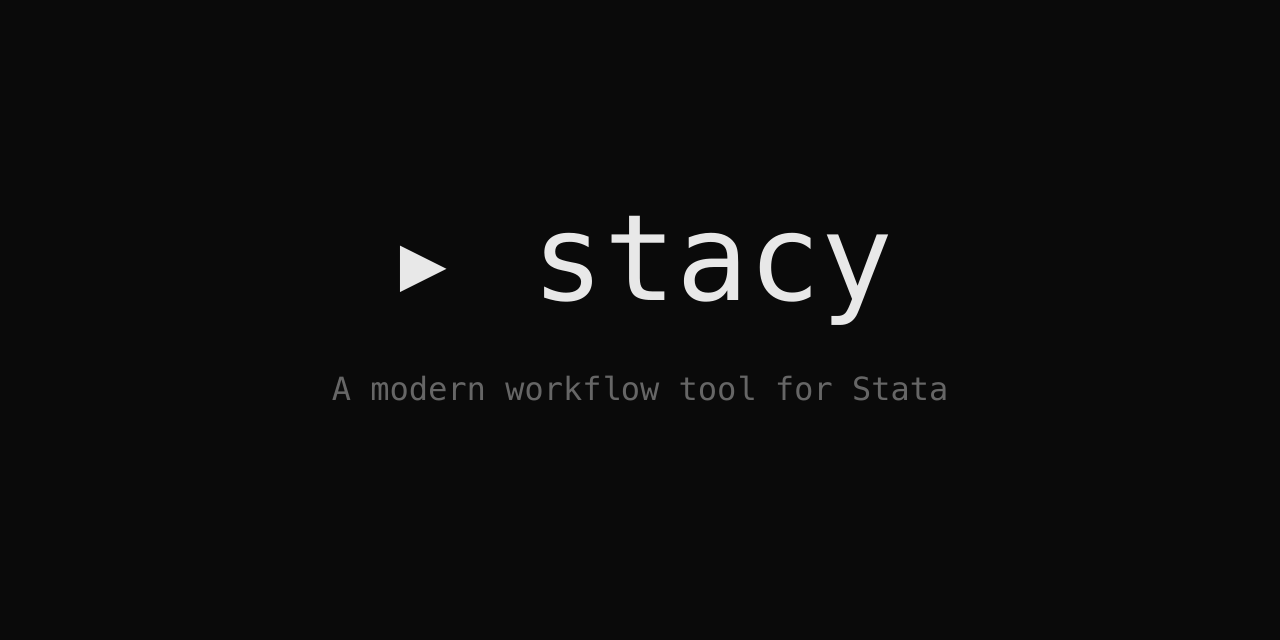
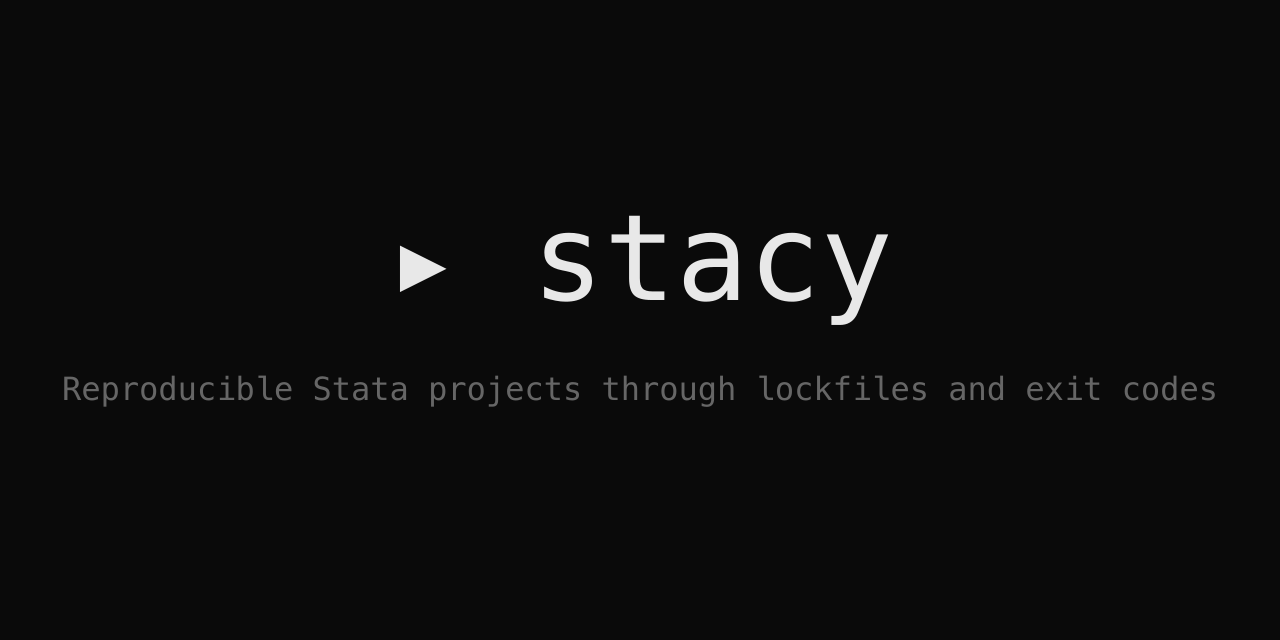
fix: remove phantom files from stacy.pkg breaking net install

Changed region(s): [[0.0312, 0.5938, 0.9688, 0.625]]

diff --git a/xtask/src/codegen.rs b/xtask/src/codegen.rs
@@ -175,7 +175,7 @@ fn generate_ado(name: &str, command: &Command, _schema: &Schema) -> Result<Strin
         "*! {}.ado - {}\n",
         command.stata_command, command.description
     ));
-    out.push_str("*! Part of stacy: Modern Stata Workflow Tool\n");
+    out.push_str("*! Part of stacy: Reproducible Stata Workflow Tool\n");
     out.push_str("*! Version: 0.1.0\n");
     out.push_str("*! AUTO-GENERATED - DO NOT EDIT\n");
     out.push_str("*! Regenerate with: cargo xtask codegen\n\n");
@@ -544,7 +544,7 @@ fn generate_sthlp(name: &str, command: &Command, _schema: &Schema) -> Result<Str
 fn generate_main_ado(schema: &Schema) -> Result<String> {
     let mut out = String::new();
 
-    out.push_str("*! stacy.ado - Modern Stata Workflow Tool\n");
+    out.push_str("*! stacy.ado - Reproducible Stata Workflow Tool\n");
     out.push_str("*! Version: 0.1.0\n");
     out.push_str("*! Author: Jan Fasnacht\n");
     out.push_str("*! URL: https://github.com/janfasnacht/stacy\n");
@@ -651,7 +651,9 @@ fn generate_main_sthlp(schema: &Schema) -> Result<String> {
     out.push_str("{marker description}{...}\n");
     out.push_str("{title:Description}\n\n");
     out.push_str("{pstd}\n");
-    out.push_str("{cmd:stacy} is a modern workflow tool for Stata that provides:\n\n");
+    out.push_str(
+        "{cmd:stacy} is a workflow tool for reproducible Stata projects that provides:\n\n",
+    );
     out.push_str("{p 8 12 2}\n");
     out.push_str(
         "{bf:1.} Proper error detection and exit codes for build system integration{p_end}\n",

diff --git a/Formula/stacy.rb b/Formula/stacy.rb
@@ -1,5 +1,5 @@
 class Stacy < Formula
-  desc "Modern Stata workflow tool for reproducible research"
+  desc "Reproducible Stata projects through lockfiles and exit codes"
   homepage "https://github.com/janfasnacht/stacy"
   version "0.1.0"
   license "MIT"

diff --git a/docs/src/introduction.md b/docs/src/introduction.md
@@ -1,12 +1,12 @@
 # Introduction
 
-[![Version](https://img.shields.io/badge/version-0.1.0-blue)](https://github.com/janfasnacht/stacy/releases)
+[![Version](https://img.shields.io/badge/version-1.0.1-blue)](https://github.com/janfasnacht/stacy/releases)
 [![License](https://img.shields.io/badge/license-MIT-green)](https://github.com/janfasnacht/stacy/blob/main/LICENSE)
 [![GitHub](https://img.shields.io/badge/github-janfasnacht/stacy-black)](https://github.com/janfasnacht/stacy)
 
-**stacy** is a modern workflow tool for Stata. It runs scripts with proper exit codes, manages packages with lockfiles, and integrates Stata into reproducible pipelines.
+Stata projects need to compose: with build systems that expect exit codes, with environments that must be reconstructed, with pipelines that mix languages. But Stata leaves two things implicit that composition requires to be explicit: the environment — what packages the project needs — and the outcome — whether execution succeeded.
 
-For those familiar with other ecosystems:
+**stacy** makes both explicit. Dependencies get a manifest and lockfile; execution gets proper exit codes. With these primitives, Stata projects can be versioned, automated, and reproduced.
 
 | If you know... | stacy is like... | Key similarity |
 |----------------|----------------|----------------|
@@ -18,11 +18,9 @@ For those familiar with other ecosystems:
 
 ## The Problem
 
-Stata's defaults leave two critical things implicit:
+**The environment is implicit.** User-written packages install to a global path — no manifest, no lockfile, no isolation between projects. There is no way to declare dependencies and install from that declaration. Each `ssc install` retrieves whatever version exists at that moment; a collaborator installing later gets a different version entirely.
 
-**Dependencies are global and unversioned.** Packages install to a global path. Versions are whatever SSC has today. When a package updates, every project using it changes silently. A replication package that worked six months ago may fail today because `reghdfe` changed its defaults.
-
-**Execution always returns success.** Stata's batch mode (`stata-mp -b do script.do`) exits with code 0 even when scripts fail. Errors are buried in logs. Build systems, CI pipelines, and orchestration tools cannot detect failure--they proceed as if nothing went wrong.
+**The outcome is implicit.** Stata's batch mode (`stata-mp -b do script.do`) exits with code 0 even when scripts fail. Errors are buried in logs. Build systems, CI pipelines, and orchestration tools cannot detect failure — they proceed as if nothing went wrong.
 
 ## The Solution
 
@@ -38,46 +36,27 @@ stacy add estout reghdfe    # Adds to stacy.toml, creates stacy.lock
 stacy install               # Installs exact versions from lockfile
 ```
 
-Now your builds stop on errors and your environments reproduce:
+A project that declares its dependencies can be installed identically elsewhere. A project that signals failure can be automated reliably:
+
+- Journals can verify that replication packages run
+- Cluster jobs fail fast instead of silently producing garbage
+- Coding agents detect when their changes cause errors
+- Collaborators work from the same locked environment rather than debugging "it worked on my machine"
 
 ```makefile
 results/output.dta: analysis.do data/input.dta
     stacy run analysis.do   # Stops on failure
 ```
 
-## Before and After
+## At a Glance
 
 | Without stacy | With stacy |
 |-------------|----------|
 | `stata -b do script.do` returns 0 even on error | `stacy run script.do` returns 1-10 on error |
-| Packages are global, unversioned | `stacy.lock` pins exact versions |
+| Packages are global, unversioned | `stacy.lock` pins exact versions with SHA256 checksums |
 | Errors buried in log files | Errors displayed with documentation links |
 | "It worked on my machine" | Same versions everywhere via lockfile |
 | Manual `ssc install` in scripts | `stacy install` from lockfile |
-
-## Key Features
-
-| Feature | What it provides |
-|---------|------------------|
-| Proper exit codes | Maps 182 official Stata error codes to Unix exit codes |
-| Lockfile management | `stacy.lock` pins exact versions with SHA256 checksums |
-| Global package cache | Packages cached at `~/.cache/stacy/packages/`, shared across projects |
-| Build system integration | Works with Make, Snakemake, CI/CD |
-| Single binary | No runtime dependencies, easy to deploy |
-
-> **Note:** Error detection uses [182 official Stata error codes](https://www.stata.com/manuals/perror.pdf) from the Stata Programming Reference Manual--not heuristics.
-
-## Incremental Adoption
-
-Even minimal usage restores critical functionality:
-
-| Level | What you do | What you get | Who this is for |
-|-------|-------------|--------------|-----------------|
-| 1 | `stacy run script.do` | Exit codes work | Anyone using Make/CI |
-| 2 | `stacy init` | Project configuration | Teams wanting standards |
-| 3 | `stacy add pkg` | Locked dependencies | Reproducibility needs |
-| 4 | Add `[scripts]` | Task automation | Complex workflows |
-| 5 | Integrate with Make/CI | Full pipeline | Publication-ready research |
 
 ## Quick Example
 

diff --git a/README.md b/README.md
@@ -1,7 +1,7 @@
 <p align="center">
   <img src="assets/wordmark-dark.svg" alt="stacy" height="48">
   <br>
-  <em>A modern workflow tool for Stata</em>
+  <em>Reproducible Stata projects through lockfiles and exit codes</em>
 </p>
 
 <p align="center">
@@ -16,7 +16,23 @@
 
 ---
 
-**stacy** runs Stata scripts with proper exit codes, manages packages with lockfiles, and integrates Stata into reproducible pipelines.
+Stata projects need to compose: with build systems that expect exit codes, with environments that must be reconstructed, with pipelines that mix languages. But Stata leaves two things implicit that composition requires to be explicit.
+
+**The environment is implicit.** Packages install to a global path — no manifest, no lockfile, no isolation between projects. Each `ssc install` retrieves whatever version exists today; a collaborator installing later gets a different version entirely.
+
+**The outcome is implicit.** Batch mode (`stata-mp -b do script.do`) returns exit code 0 even when scripts fail. Build systems, CI pipelines, and coding agents cannot detect failure — they proceed as if nothing went wrong.
+
+**stacy** makes both explicit:
+
+```bash
+# Proper exit codes
+stacy run analysis.do
+echo $?  # 0 on success, 1-10 on error
+
+# Lockfile-based dependencies
+stacy add estout reghdfe    # Declares in stacy.toml, locks in stacy.lock
+stacy install               # Installs exact versions from lockfile
+```
 
 | If you know... | stacy is like... |
 |----------------|----------------|
@@ -24,26 +40,6 @@
 | Python | uv / Poetry |
 | JavaScript | npm |
 | R | renv |
-
-## The Problem
-
-Stata's batch mode always returns success, even when scripts fail:
-
-```bash
-stata-mp -b do analysis.do
-echo $?  # Always 0, even on error
-```
-
-This breaks Make, Snakemake, CI pipelines, and coding agents that depend on exit codes.
-
-## The Solution
-
-```bash
-stacy run analysis.do
-echo $?  # 0 on success, 1-10 on error
-```
-
-Now your builds stop on failure and your environments reproduce.
 
 ## Installation
 
@@ -53,6 +49,10 @@ curl -fsSL https://raw.githubusercontent.com/janfasnacht/stacy/main/install.sh |
 
 # Homebrew
 brew install janfasnacht/stacy/stacy
+
+# From within Stata
+net install stacy, from("https://raw.githubusercontent.com/janfasnacht/stacy/main/stata/")
+stacy_setup
 
 # From source
 cargo install --git https://github.com/janfasnacht/stacy.git

diff --git a/docs/src/reference/how-it-works.md b/docs/src/reference/how-it-works.md
@@ -21,7 +21,7 @@ Stata's batch mode (`stata -b do script.do`) always exits with code 0, even when
 
 1. **Execute**: stacy runs Stata with `-b -q` flags
 2. **Parse**: After Stata exits, stacy parses the log file
-3. **Detect**: Matches against 182 official error patterns
+3. **Detect**: Matches against Stata's official `r()` error codes
 4. **Report**: Returns appropriate exit code (1-10)
 
 ```
@@ -48,7 +48,7 @@ file myfile.dta not found
 
 ### Official Stata Error Codes
 
-stacy includes all 182 error codes from the [Stata Programming Reference Manual](https://www.stata.com/manuals/perror.pdf):
+stacy extracts error codes from your Stata installation at runtime (`stacy doctor` triggers this). It falls back to range-based categories from the [Stata Programming Reference Manual](https://www.stata.com/manuals/perror.pdf):
 
 | Range | Category | Examples |
 |-------|----------|----------|

diff --git a/docs/src/installation.md b/docs/src/installation.md
@@ -16,6 +16,17 @@ irm https://raw.githubusercontent.com/janfasnacht/stacy/main/install.ps1 | iex
 
 Both install to `~/.local/bin/` (or equivalent). Ensure this directory is in your PATH.
 
+## From within Stata
+
+If you prefer not to leave Stata, you can install stacy directly from the Stata console:
+
+```stata
+net install stacy, from("https://raw.githubusercontent.com/janfasnacht/stacy/main/stata/")
+stacy_setup
+```
+
+This downloads the Stata wrappers and installs the stacy binary to `~/.local/bin/`. After setup, all stacy commands are available as native Stata commands (e.g., `stacy run analysis.do`, `stacy add estout`).
+
 ## Other Methods
 
 **Homebrew:**

diff --git a/CHANGELOG.md b/CHANGELOG.md
@@ -7,6 +7,17 @@ and this project adheres to [Semantic Versioning](https://semver.org/spec/v2.0.0
 
 ## [Unreleased]
 
+## [1.0.1] - 2026-02-15
+
+### Fixed
+
+- Fix `net install` from Stata: remove 5 phantom files from `stacy.pkg` that caused r(601)
+
+### Changed
+
+- Align project description, README, and docs intro with paper framing
+- Add Stata installation instructions to README and docs
+
 ## [1.0.0] - 2026-02-15
 
 Initial public release.
